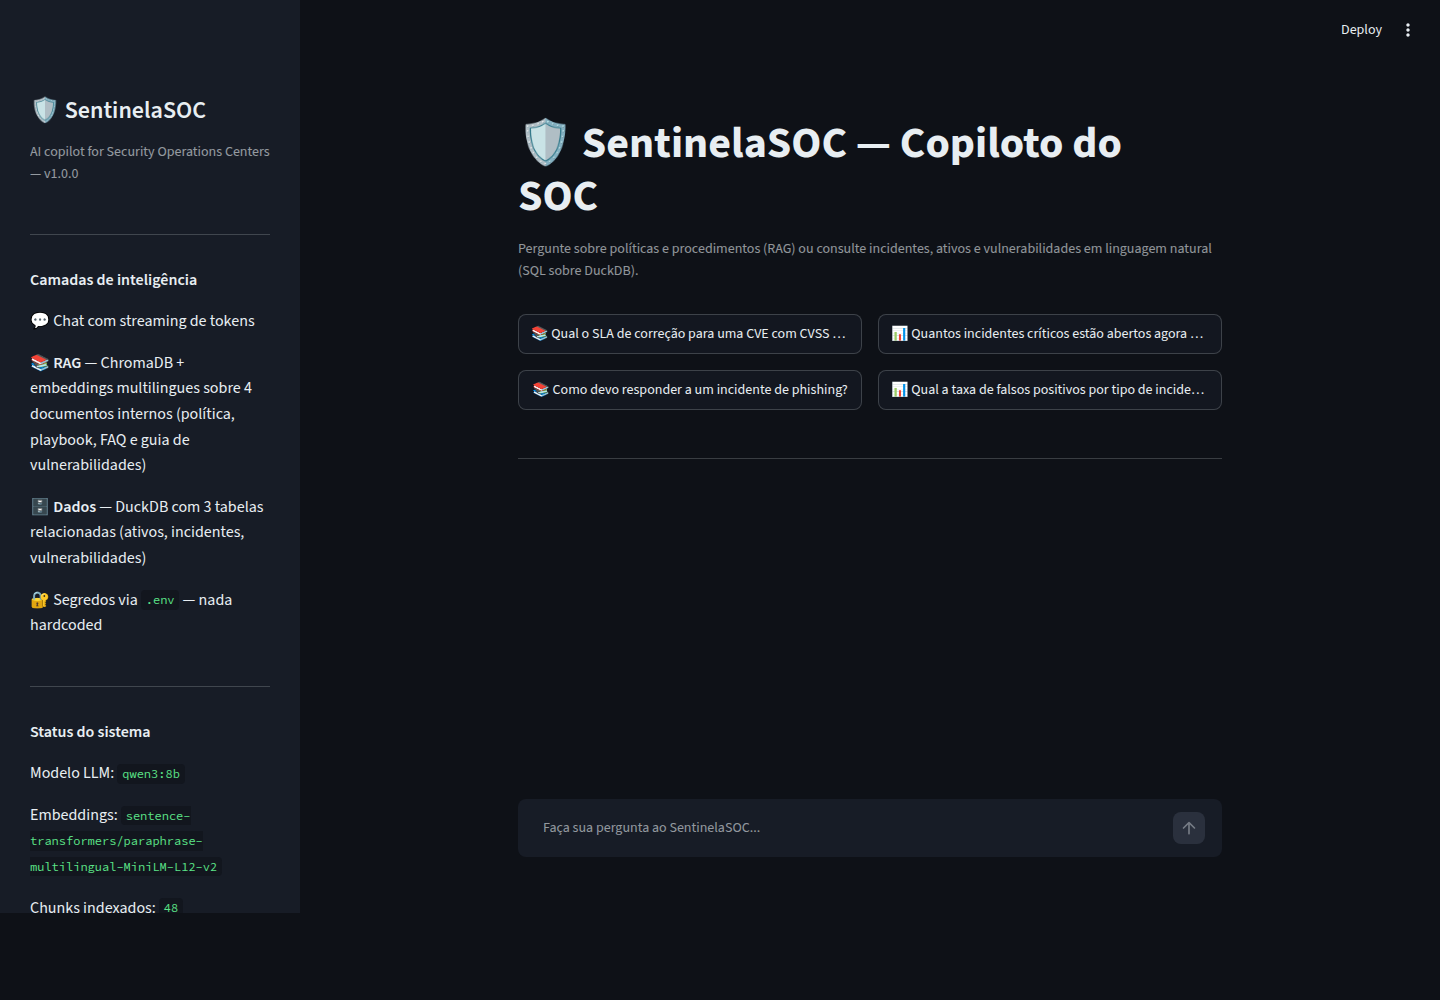
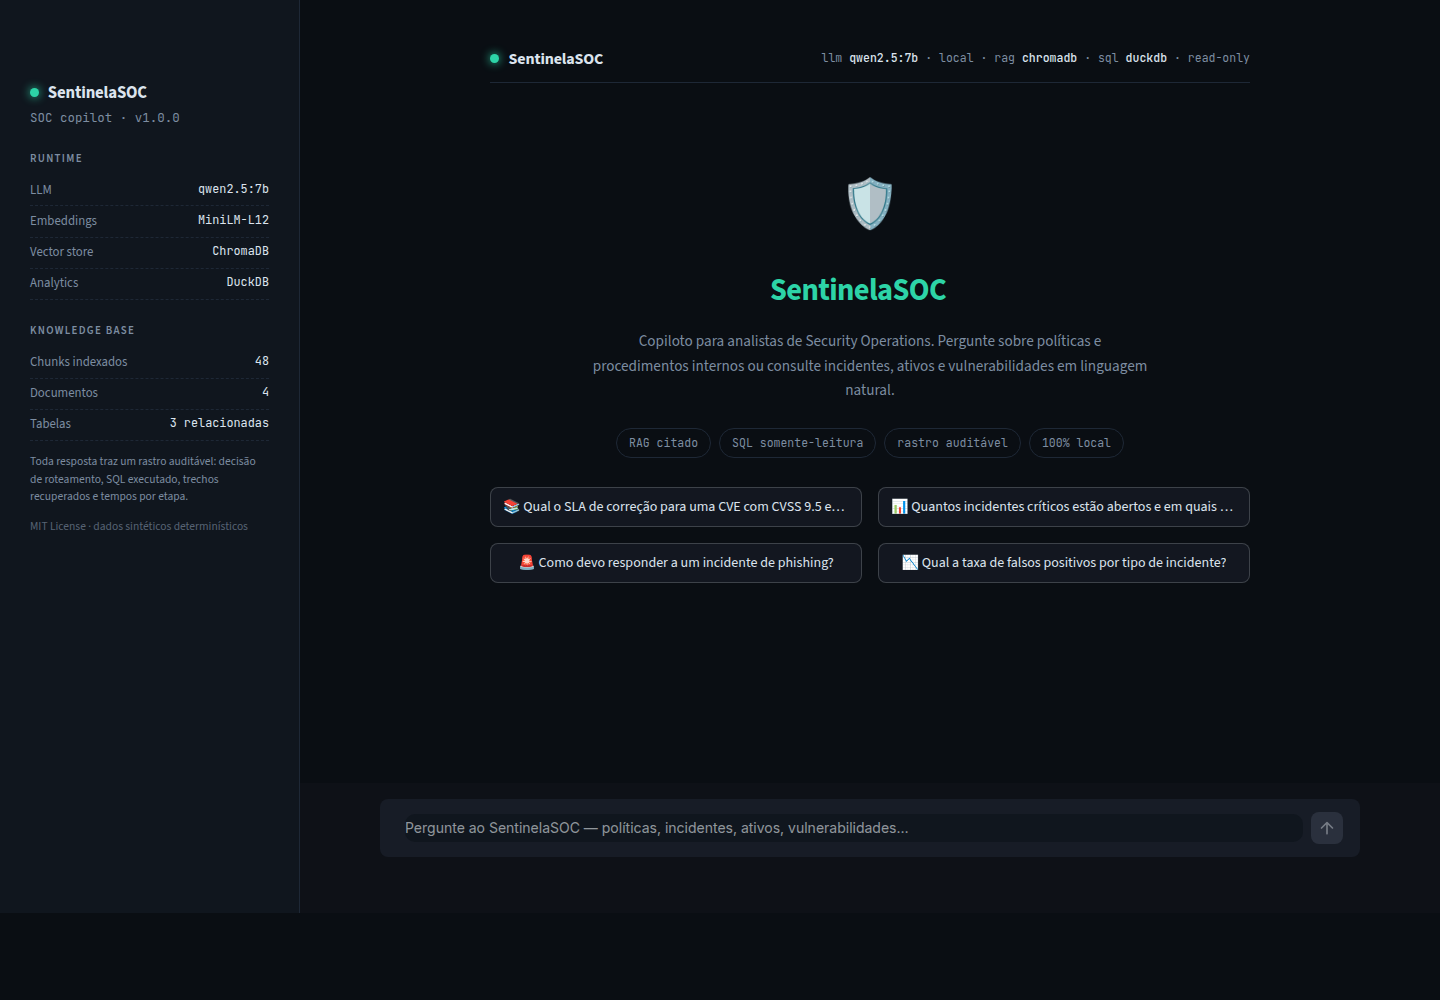
feat(app): SOC-console UI overhaul — custom theme, hero empty-state, live pipeline status, styled trace panel; default model qwen2.5:7b (non-thinking)

diff --git a/app.py b/app.py
@@ -10,130 +10,231 @@ from sentinelasoc import db, rag
 from sentinelasoc.agent import AgenteSOC
 from sentinelasoc.settings import get_settings
 
-st.set_page_config(page_title="SentinelaSOC", page_icon="🛡", layout="centered")
+st.set_page_config(page_title="SentinelaSOC", page_icon="🛡", layout="wide")
 
 settings = get_settings()
 
-# ---------- Estado da sessao ----------
+# ─────────────────────────────────────────────────────────────────────────────
+# Estilo (um unico bloco HTML, sem linhas em branco — senao o parser escapa)
+# ─────────────────────────────────────────────────────────────────────────────
+CSS = """<link href="https://fonts.googleapis.com/css2?family=Inter:wght@400;500;600;700&family=JetBrains+Mono:wght@400;500&display=swap" rel="stylesheet">
+<style>
+  :root { --bg: #0a0e13; --panel: #10161e; --panel-2: #151d27; --border: #1e2836;
+    --text: #dce4ee; --muted: #7d8da1; --accent: #2dd4a7; --accent-dim: #1a8f6e;
+    --red: #f0564a; --mono: 'JetBrains Mono', ui-monospace, monospace; }
+  html, body, .stApp { background: var(--bg); color: var(--text);
+    font-family: 'Inter', -apple-system, 'Segoe UI', sans-serif; }
+  [data-testid="stHeader"] { background: transparent; height: 0; }
+  [data-testid="stToolbar"] { display: none; }
+  footer { display: none; }
+  [data-testid="stStatusWidget"] { display: none; }
+  #MainMenu, .stDeployButton { visibility: hidden; }
+  .block-container { padding-top: 1.2rem; max-width: 920px; margin: 0 auto; }
+  .hero { text-align: center; padding: 4rem 1rem 1.8rem; }
+  .hero .mark { font-size: 3rem; }
+  .hero h1 { font-size: 1.9rem; font-weight: 700; letter-spacing: -.02em; margin: .6rem 0 .3rem; color: var(--text); }
+  .hero h1 span { color: var(--accent); }
+  .hero p { color: var(--muted); font-size: .95rem; max-width: 560px; margin: 0 auto 1.6rem; }
+  .hero .tags { display: flex; gap: .5rem; justify-content: center; flex-wrap: wrap; }
+  .tag { font-family: var(--mono); font-size: .72rem; color: var(--muted);
+    border: 1px solid var(--border); border-radius: 999px; padding: .3rem .75rem; }
+  .topbar { display: flex; align-items: center; justify-content: space-between;
+    border-bottom: 1px solid var(--border); padding: .65rem 0; margin-bottom: 1.2rem; }
+  .topbar .brand { display: flex; align-items: center; gap: .6rem; font-weight: 700; letter-spacing: -.01em; color: var(--text); }
+  .topbar .brand .dot { width: 9px; height: 9px; border-radius: 50%;
+    background: var(--accent); box-shadow: 0 0 10px var(--accent); }
+  .topbar .meta { font-family: var(--mono); font-size: .72rem; color: var(--muted); }
+  .topbar .meta b { color: var(--text); font-weight: 500; }
+  .quick button { background: var(--panel) !important; color: var(--text) !important;
+    border: 1px solid var(--border) !important; border-radius: 10px; padding: .7rem .9rem;
+    text-align: left; font-size: .86rem; transition: border-color .15s, background .15s;
+    font-family: 'Inter', sans-serif; }
+  .quick button:hover { border-color: var(--accent-dim) !important; background: var(--panel-2) !important; }
+  [data-testid="stChatMessage"] { background: var(--panel); border: 1px solid var(--border);
+    border-radius: 12px; padding: .9rem 1.1rem; margin: .4rem 0 1rem; }
+  [data-testid="stChatMessage"] [data-testid="chatAvatarIcon"] { font-size: 1.45rem; }
+  [data-testid="stChatMessage"] p { font-size: .92rem; line-height: 1.55; margin-bottom: .5rem; }
+  .cursor { display: inline-block; color: var(--accent); animation: blink 1s step-start infinite; }
+  @keyframes blink { 50% { opacity: 0; } }
+  [data-testid="stExpander"] { border: 1px solid var(--border); border-radius: 10px; background: var(--panel); }
+  [data-testid="stExpander"] summary { font-family: var(--mono); font-size: .78rem; }
+  [data-testid="stExpander"] summary span { color: var(--muted) !important; }
+  .trace-row { font-family: var(--mono); font-size: .74rem; color: var(--muted);
+    padding: .15rem 0; display: flex; gap: .6rem; align-items: baseline; }
+  .trace-row .k { color: var(--accent); min-width: 64px; }
+  .trace-row .k.err { color: var(--red); }
+  .stCodeBlock { border-radius: 8px; }
+  code { font-family: var(--mono) !important; }
+  [data-testid="stChatInput"] { border-color: var(--border); }
+  [data-testid="stChatInput"] textarea { background: var(--panel) !important;
+    color: var(--text) !important; font-family: 'Inter', sans-serif; border-radius: 10px; }
+  section[data-testid="stSidebar"] { background: var(--panel); border-right: 1px solid var(--border); }
+  section[data-testid="stSidebar"] * { color: var(--text); }
+  .side-brand { display: flex; align-items: center; gap: .55rem; font-weight: 700;
+    font-size: 1.05rem; letter-spacing: -.01em; padding: .2rem 0 .1rem; }
+  .side-brand .dot { width: 9px; height: 9px; border-radius: 50%;
+    background: var(--accent); box-shadow: 0 0 10px var(--accent); }
+  .side-sub { color: var(--muted) !important; font-size: .78rem; font-family: var(--mono); }
+  .side-h { font-size: .68rem; letter-spacing: .12em; text-transform: uppercase;
+    color: var(--muted) !important; font-weight: 600; margin: 1.4rem 0 .5rem; }
+  .side-kv { display: flex; justify-content: space-between; font-size: .8rem;
+    padding: .3rem 0; border-bottom: 1px dashed var(--border); }
+  .side-kv .k { color: var(--muted); } .side-kv .v { font-family: var(--mono); font-size: .74rem; }
+  .side-note { font-size: .72rem; color: var(--muted) !important; line-height: 1.5; margin-top: .8rem; }
+  div[data-testid="stStatus"] { border: 1px solid var(--border); border-radius: 10px;
+    background: var(--panel); font-family: var(--mono); font-size: .76rem; }
+</style>"""
+st.markdown(CSS, unsafe_allow_html=True)
+
+# ─────────────────────────────────────────────────────────────────────────────
+# Estado
+# ─────────────────────────────────────────────────────────────────────────────
 if "mensagens" not in st.session_state:
     st.session_state.mensagens = []
 if "pergunta_pendente" not in st.session_state:
     st.session_state.pergunta_pendente = None
 
 
-@st.cache_resource(show_spinner="Inicializando camadas do SentinelaSOC...")
+@st.cache_resource(show_spinner=False)
 def carregar_camadas() -> AgenteSOC:
-    db.conectar()  # garante o DuckDB criado a partir dos CSVs
-    rag.get_collection()  # aquece o modelo de embeddings + ChromaDB
+    db.conectar()
+    rag.get_collection()
     return AgenteSOC()
 
 
-# ---------- Barra lateral ----------
-with st.sidebar:
-    st.title("🛡 SentinelaSOC")
-    st.caption(f"AI copilot for Security Operations Centers — v{sentinelasoc.__version__}")
-    st.divider()
-
-    st.markdown(
-        """
-        **Camadas de inteligência**
-
-        💬 Chat com streaming de tokens
-
-        📚 **RAG** — ChromaDB + embeddings multilingues
-        sobre 4 documentos internos (política, playbook,
-        FAQ e guia de vulnerabilidades)
-
-        🗄 **Dados** — DuckDB com 3 tabelas relacionadas
-        (ativos, incidentes, vulnerabilidades)
-
-        🔐 Segredos via `.env` — nada hardcoded
-        """
-    )
-    st.divider()
-
+def _chunks_indexados() -> int | None:
     try:
-        colecao = rag.get_collection()
-        st.markdown(
-            f"""
-            **Status do sistema**
-
-            Modelo LLM: `{settings.llm_model}`
-
-            Embeddings: `{settings.embed_model}`
-
-            Chunks indexados: `{colecao.count()}`
-
-            Tabelas: ativos · incidentes · vulnerabilidades
-            """
-        )
+        return rag.get_collection().count()
     except Exception:
-        st.warning("Camada RAG ainda não inicializada. Execute `python ingest.py`.")
+        return None
 
-    st.divider()
-    st.caption("MIT License · Streamlit · DuckDB · ChromaDB")
 
-# ---------- Cabeçalho ----------
-st.title("🛡 SentinelaSOC — Copiloto do SOC")
-st.caption(
-    "Pergunte sobre políticas e procedimentos (RAG) ou consulte incidentes, ativos e "
-    "vulnerabilidades em linguagem natural (SQL sobre DuckDB)."
+# ─────────────────────────────────────────────────────────────────────────────
+# Sidebar
+# ─────────────────────────────────────────────────────────────────────────────
+SIDEBAR = f"""
+<div class="side-brand"><span class="dot"></span> SentinelaSOC</div>
+<div class="side-sub">SOC copilot · v{sentinelasoc.__version__}</div>
+<div class="side-h">Runtime</div>
+<div class="side-kv"><span class="k">LLM</span><span class="v">{settings.llm_model}</span></div>
+<div class="side-kv"><span class="k">Embeddings</span><span class="v">MiniLM-L12</span></div>
+<div class="side-kv"><span class="k">Vector store</span><span class="v">ChromaDB</span></div>
+<div class="side-kv"><span class="k">Analytics</span><span class="v">DuckDB</span></div>
+<div class="side-h">Knowledge base</div>
+<div class="side-kv"><span class="k">Chunks indexados</span><span class="v">{_chunks_indexados() or "—"}</span></div>
+<div class="side-kv"><span class="k">Documentos</span><span class="v">4</span></div>
+<div class="side-kv"><span class="k">Tabelas</span><span class="v">3 relacionadas</span></div>
+<div class="side-note">Toda resposta traz um rastro auditável: decisão de roteamento, SQL executado, trechos recuperados e tempos por etapa.</div>
+<div class="side-note" style="opacity:.65">MIT License · dados sintéticos determinísticos</div>
+"""
+with st.sidebar:
+    st.markdown(SIDEBAR, unsafe_allow_html=True)
+
+# ─────────────────────────────────────────────────────────────────────────────
+# Topbar / hero
+# ─────────────────────────────────────────────────────────────────────────────
+st.markdown(
+    f"""
+<div class="topbar">
+  <div class="brand"><span class="dot"></span> SentinelaSOC</div>
+  <div class="meta">llm <b>{settings.llm_model}</b> · local · rag <b>chromadb</b> · sql <b>duckdb</b> · read-only</div>
+</div>
+""",
+    unsafe_allow_html=True,
 )
 
-# ---------- Perguntas de exemplo ----------
-st.markdown("")
-exemplos = [
-    "📚 Qual o SLA de correção para uma CVE com CVSS 9.5 em ativo exposto?",
-    "📊 Quantos incidentes críticos estão abertos agora e em quais ativos?",
-    "📚 Como devo responder a um incidente de phishing?",
-    "📊 Qual a taxa de falsos positivos por tipo de incidente?",
+if not st.session_state.mensagens:
+    st.markdown(
+        """
+<div class="hero">
+  <div class="mark">🛡</div>
+  <h1>Sentinela<span>SOC</span></h1>
+  <p>Copiloto para analistas de Security Operations. Pergunte sobre políticas e procedimentos internos ou consulte incidentes, ativos e vulnerabilidades em linguagem natural.</p>
+  <div class="tags">
+    <span class="tag">RAG citado</span><span class="tag">SQL somente-leitura</span>
+    <span class="tag">rastro auditável</span><span class="tag">100% local</span>
+  </div>
+</div>
+""",
+        unsafe_allow_html=True,
+    )
+
+EXEMPLOS = [
+    ("📚", "Qual o SLA de correção para uma CVE com CVSS 9.5 em ativo exposto?"),
+    ("📊", "Quantos incidentes críticos estão abertos e em quais ativos?"),
+    ("🚨", "Como devo responder a um incidente de phishing?"),
+    ("📉", "Qual a taxa de falsos positivos por tipo de incidente?"),
 ]
-grade = st.columns(2)
-for i, texto in enumerate(exemplos):
-    if grade[i % 2].button(texto, key=f"ex{i}", use_container_width=True):
+
+grade = st.columns(2, gap="small")
+for i, (icone, texto) in enumerate(EXEMPLOS):
+    if grade[i % 2].button(f"{icone}  {texto}", key=f"ex{i}", use_container_width=True):
         st.session_state.pergunta_pendente = texto
 
-st.markdown("---")
-
-# ---------- Verificacao de chave ----------
+# ─────────────────────────────────────────────────────────────────────────────
+# Chave de API
+# ─────────────────────────────────────────────────────────────────────────────
 if not settings.openai_api_key:
-    st.error(
-        "**OPENAI_API_KEY não configurada.** Copie `.env.example` para `.env`, "
-        "informe sua chave e reinicie a aplicação."
-    )
+    st.error("**OPENAI_API_KEY não configurada.** Copie `.env.example` para `.env` e reinicie.")
     st.stop()
 
 agente = carregar_camadas()
 
 
+# ─────────────────────────────────────────────────────────────────────────────
+# Renderizacao
+# ─────────────────────────────────────────────────────────────────────────────
 def renderizar_trace(trace: list[dict]) -> None:
-    """Painel de rastreabilidade: ferramentas usadas na resposta."""
-    with st.expander("🔍 Rastro da resposta (ferramentas RAG/SQL)"):
+    with st.expander("🔍 rastro da resposta"):
         for item in trace:
             if item["tipo"] == "sql":
-                st.markdown(f"**SQL gerado** ({item['linhas']} linhas):")
+                st.markdown(
+                    f"<div class='trace-row'><span class='k'>sql</span>"
+                    f"<span>{item['linhas']} linhas retornadas</span></div>",
+                    unsafe_allow_html=True,
+                )
                 st.code(item["sql"], language="sql")
             elif item["tipo"] == "rag":
-                st.markdown("**Documentos recuperados:**")
                 for fonte in item["fontes"]:
-                    st.markdown(f"- {fonte}")
+                    st.markdown(
+                        f"<div class='trace-row'><span class='k'>rag</span><span>{fonte}</span></div>",
+                        unsafe_allow_html=True,
+                    )
             elif item["tipo"] == "direto":
-                st.markdown(f"**Decisão:** {item['decisao']}")
-            elif item["tipo"] == "tempo":
-                st.markdown(f"⏱ {item['etapa']}: {item['segundos']}s")
+                st.markdown(
+                    f"<div class='trace-row'><span class='k'>rota</span><span>{item['decisao']}</span></div>",
+                    unsafe_allow_html=True,
+                )
             elif item["tipo"] == "erro":
-                st.warning(f"Falha: {item['detalhe']}")
+                st.markdown(
+                    f"<div class='trace-row'><span class='k err'>erro</span>"
+                    f"<span>{item['detalhe']}</span></div>",
+                    unsafe_allow_html=True,
+                )
 
 
-# ---------- Historico ----------
+def _resumo_status(trace: list[dict]) -> str:
+    """Rotulo vivo do pipeline conforme o trace cresce."""
+    for item in reversed(trace):
+        if item["tipo"] == "sql":
+            return f"consultando duckdb… {item['linhas']} linhas"
+        if item["tipo"] == "rag":
+            return "buscando documentos…"
+        if item["tipo"] == "erro":
+            return "falha isolada em ferramenta"
+    return "roteando pergunta…"
+
+
 for msg in st.session_state.mensagens:
-    with st.chat_message(msg["role"], avatar="🧑💻" if msg["role"] == "user" else "🛡"):
-        st.markdown(msg["content"])
+    avatar = "🧑💻" if msg["role"] == "user" else "🛡"
+    with st.chat_message(msg["role"], avatar=avatar):
+        st.markdown(msg["content"], unsafe_allow_html=True)
         if msg["role"] == "assistant" and msg.get("trace"):
             renderizar_trace(msg["trace"])
 
-# ---------- Entrada ----------
-pergunta = st.chat_input("Faça sua pergunta ao SentinelaSOC...")
+pergunta = st.chat_input(
+    "Pergunte ao SentinelaSOC — políticas, incidentes, ativos, vulnerabilidades…"
+)
 if st.session_state.pergunta_pendente:
     pergunta = st.session_state.pergunta_pendente
     st.session_state.pergunta_pendente = None
@@ -141,15 +242,27 @@ if st.session_state.pergunta_pendente:
 if pergunta:
     st.session_state.mensagens.append({"role": "user", "content": pergunta})
     with st.chat_message("user", avatar="🧑💻"):
-        st.markdown(pergunta)
+        st.markdown(pergunta, unsafe_allow_html=True)
 
     with st.chat_message("assistant", avatar="🛡"):
+        caixa_status = st.status("roteando pergunta…", expanded=False)
+        placeholder = st.empty()
+        texto = ""
+        vistos = 0
         try:
-            resposta = st.write_stream(agente.answer(pergunta, st.session_state.mensagens[:-1]))
+            for chunk in agente.answer(pergunta, st.session_state.mensagens[:-1]):
+                texto += chunk
+                if len(agente.last_trace) != vistos:
+                    vistos = len(agente.last_trace)
+                    caixa_status.update(label=_resumo_status(agente.last_trace))
+                placeholder.markdown(
+                    texto + '<span class="cursor">▌</span>', unsafe_allow_html=True
+                )
+            caixa_status.update(label="resposta concluída", state="complete", expanded=False)
         except Exception as exc:
-            resposta = f"⚠ Erro ao processar: `{exc}`"
-            st.error(resposta)
+            texto = f"⚠ Erro ao processar: `{exc}`"
+        placeholder.markdown(texto, unsafe_allow_html=True)
         st.session_state.mensagens.append(
-            {"role": "assistant", "content": resposta, "trace": agente.last_trace}
+            {"role": "assistant", "content": texto, "trace": agente.last_trace}
         )
         renderizar_trace(agente.last_trace)

diff --git a/README.md b/README.md
@@ -70,7 +70,7 @@ speaks the OpenAI protocol).
 git clone https://github.com/USERNAME/sentinelasoc && cd sentinelasoc
 make install                # venv + deps (CPU torch)
 cp .env.example .env        # defaults point to a local Ollama instance
-ollama pull qwen3:8b        # any chat model works — see `ollama list`
+ollama pull qwen2.5:7b        # any chat model works — see `ollama list`
 make ingest                 # index docs/ into ChromaDB
 make run                    # → http://localhost:8501
 ```
@@ -93,7 +93,7 @@ download on first question.
 |---|---|---|
 | `OPENAI_API_KEY` | `ollama` | Placeholder for local Ollama; real key for cloud providers |
 | `OPENAI_BASE_URL` | `http://localhost:11434/v1` | Ollama by default; point to OpenAI/OpenRouter/Groq/vLLM when needed |
-| `LLM_MODEL` | `qwen3:8b` | Any model available in `ollama list`, or a cloud model name |
+| `LLM_MODEL` | `qwen2.5:7b` | Any model available in `ollama list`, or a cloud model name |
 | `EMBED_MODEL` | `paraphrase-multilingual-MiniLM-L12-v2` | Embedding model (e5 family supported; prefixes handled automatically) |
 | `RETRIEVAL_K` | `4` | Chunks retrieved per query |
 | `LOG_LEVEL` | `INFO` | Logging |
